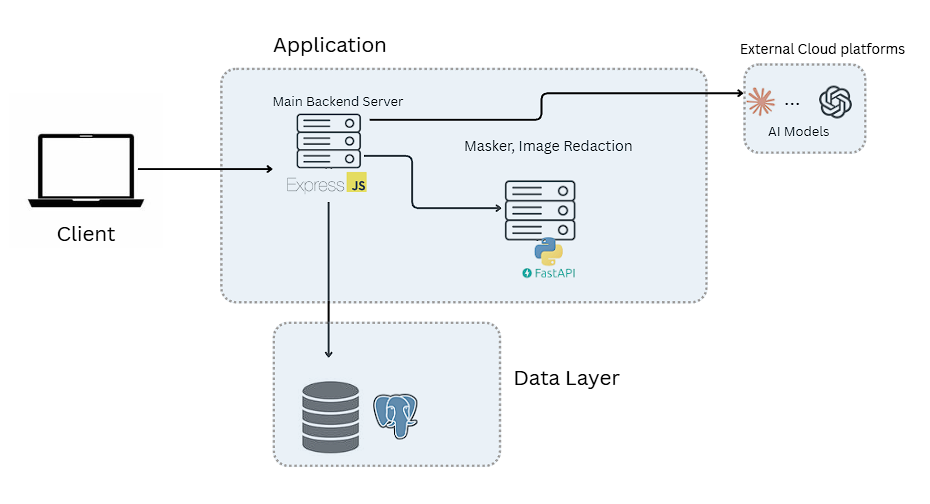
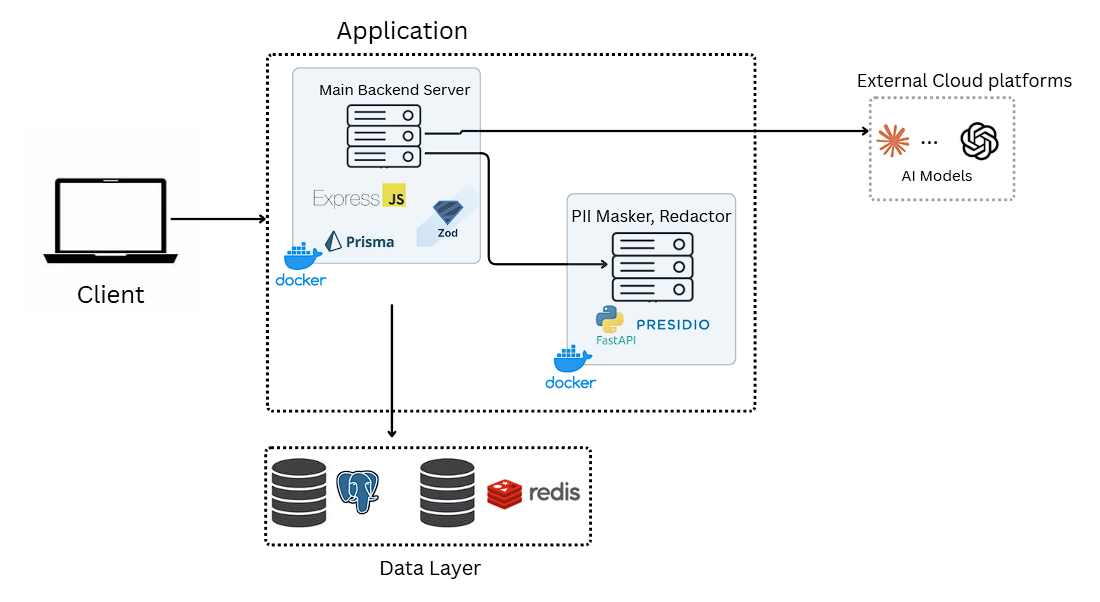
update

Changed region(s): [[0.0312, 0.0298, 0.9978, 0.9821]]

diff --git a/src/constants/constants.ts b/src/constants/constants.ts
@@ -79,10 +79,12 @@ export const projects : project[] = [
         name : "TikTok Tech Jam 2025: Secure Multi-Model LLM Chat Messaging Platform",
         timeFrame : "Aug 25",
         description: 
-        `A secure multi-modal LLM chat messaging platform developed with a team of 5 for TikTok's Tech Jam 2025 hackathon. 
-        The backend server uses **Express.js (TypeScript)** and **PostgreSQL (Prisma ORM)** with **multi-LLM provider support** (OpenAI, Anthropic, Google).
-        We also created an intermediate service that can run alongside this backend server as a separate container, from which key REST API endpoints are exposed to mask, replace sensitive user input data before they are sent over to the LLM for parsing.
-        It was truly an enlightening experience in terms of understanding the security risks associated with GenerativeAI especially regarding exposure of key private data.
+        `A secure **multi-modal **LLM **chat_messaging platform developed with a team of five for **TikTok’s **Tech_Jam **2025_hackathon. 
+        The **backend_server was built using **Express.js **(TypeScript) and **PostgreSQL **(Prisma ORM) with **multi-LLM **provider_support (OpenAI, Anthropic, and Google). 
+        We also developed an **intermediate_service, deployed as a **separate_container, providing **PII_masking and **redaction via exposed REST API endpoints using **Microsoft_Presidio, supporting both **text and **image_de-identification. 
+        For the main backend service, **Prisma_ORM was used to provide type-safe database access and abstraction over relational data models, with schema versioning and controlled evolution managed through **Prisma_migrations.
+        Zod was also used alonside as a validation libraty to enforce schema-based validation at the application layer. This ensured that incoming request payloads were correctly structured, type-safe before reaching into business logic, database writes.
+        It was truly an **enlightening_experience in terms of understanding the **security_risks associated with GenerativeAI, especially regarding exposure of key private data.
   `,
         imageSource : "/images/suttd_gaurds.png",
         videoSource : null,
@@ -90,7 +92,7 @@ export const projects : project[] = [
         videoCollage :null,
         longerDescription : "Longer DESC HERE",
         uniqueIdName : "sutdg",
-        techstack : ["/icons/python.png", "/icons/ts.png", "/icons/react.png","/icons/psql.png","/icons/docker.png",],
+        techstack : ["/icons/python.png", "/icons/ts.png", "/icons/react.png","/icons/psql.png","/icons/docker.png","/icons/prisma.png","/icons/zod.png","/icons/presidio.png"],
         githubLink : null,
         checkItOutLinks : null,
         checkItOutMsgs : null,
